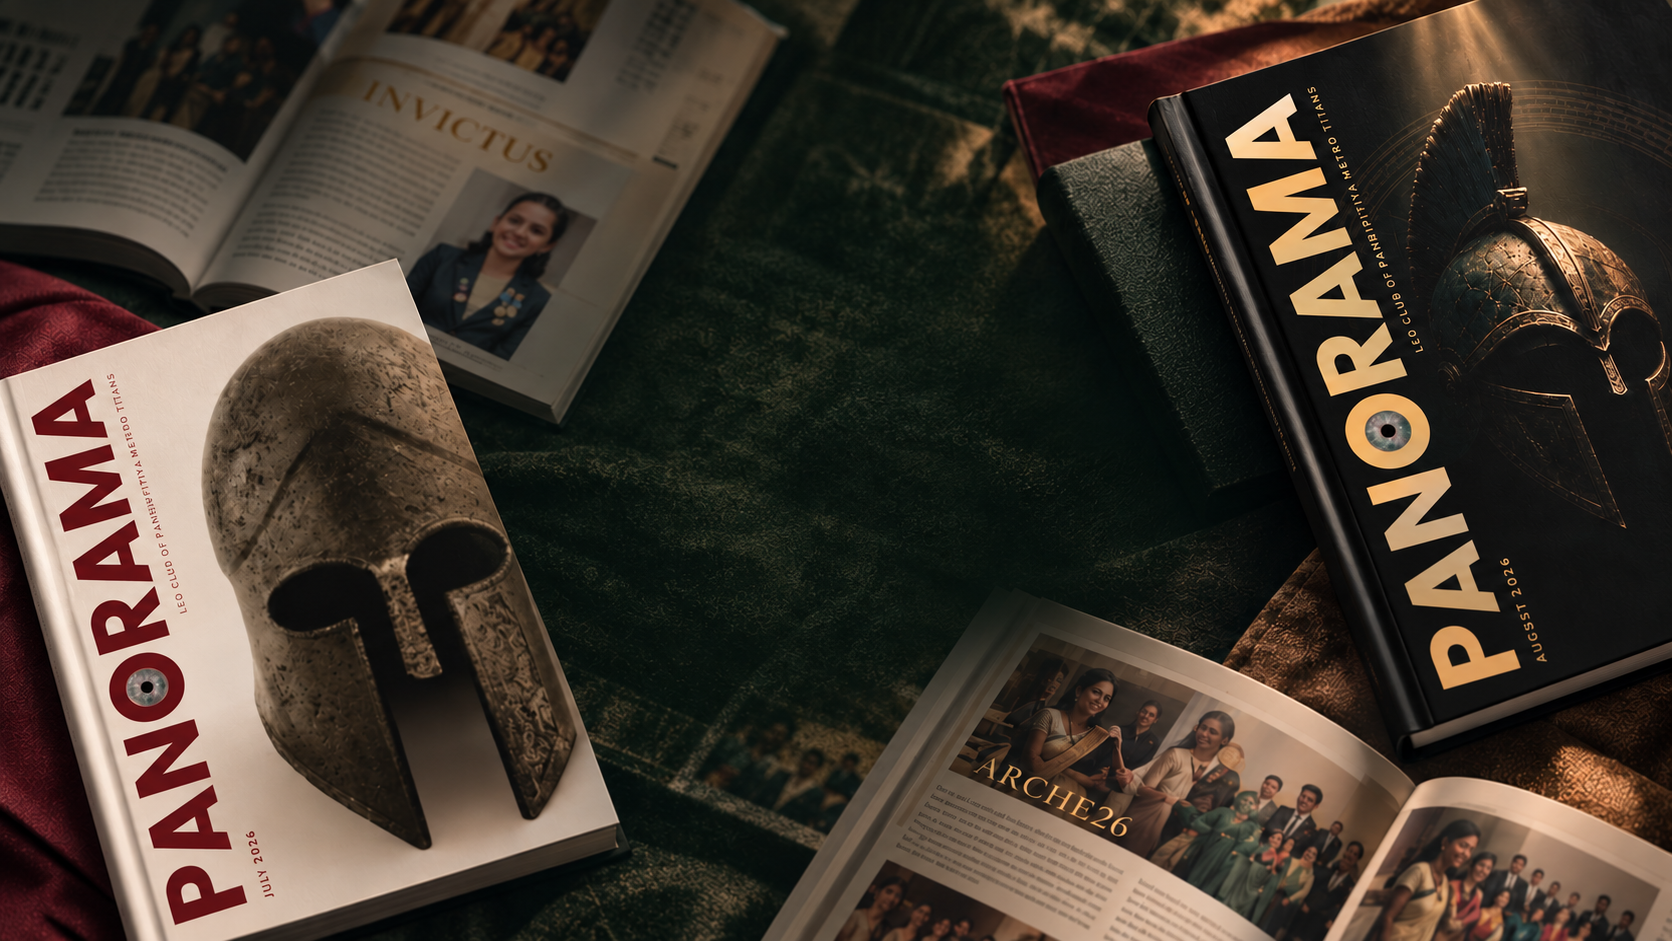
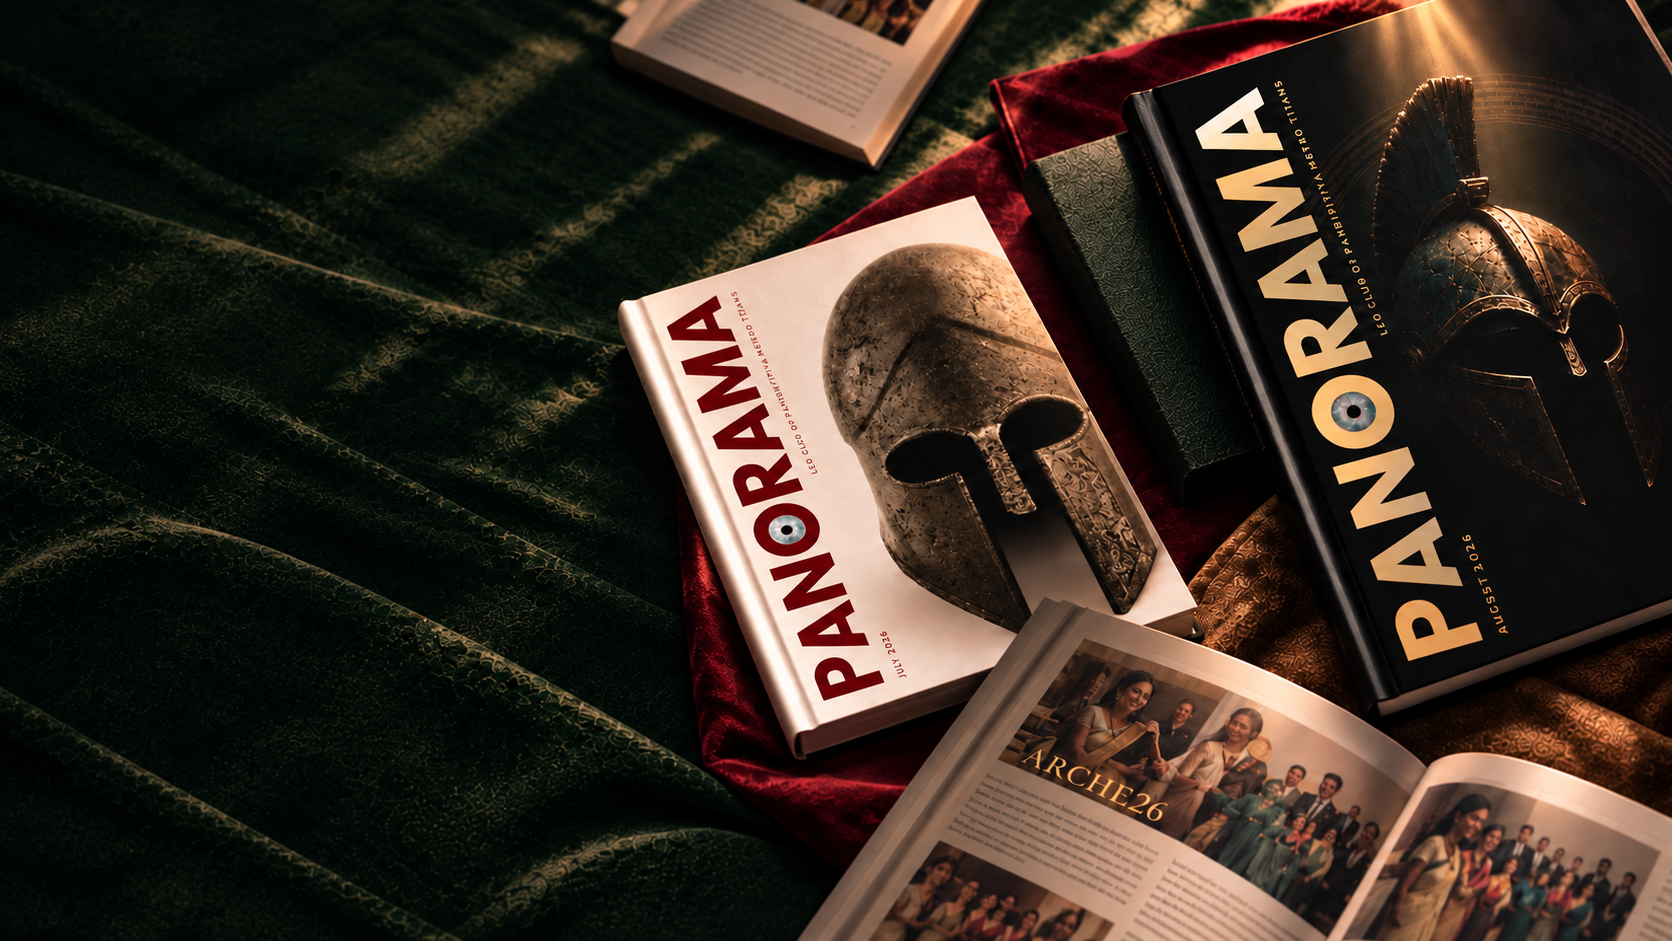
tweaks

diff --git a/app/(main)/newsletters/page.tsx b/app/(main)/newsletters/page.tsx
@@ -95,9 +95,9 @@ export default async function NewslettersPage({
           </p>
           <div className="flex flex-wrap justify-center gap-x-12 md:gap-x-16 gap-y-14">
             {[
-              { name: "Leo Sinadi Badullage", role: "Secretary", img: "/images/team/sinadi.png" },
-              { name: "Leo Thulya Hasindi", role: "Assistant Secretary", img: "/images/team/thulya.png" },
-              { name: "Leo Rashida Jamaldeen", role: "Bulletin Editor", img: "/images/team/rashida.png" },
+              { name: "Leo Sinadi Sithumya", role: "Secretary", img: "/images/team/sinadi.png" },
+              { name: "Leo F. R. Jamaldeen", role: "Bulletin Editor", img: "/images/team/rashida.png" },
+              { name: "Leo Thulya Hasindi", role: "Asst. Secretary", img: "/images/team/thulya.png" },
               { name: "Leo Chesmi Maleena", role: "Digital Transformation", img: "/images/team/chesmi.png" }
             ].map((person, i) => (
               <div key={i} className="flex flex-col items-center w-44 sm:w-48 md:w-52">

diff --git a/components/sections/About.tsx b/components/sections/About.tsx
@@ -23,7 +23,7 @@ export default function AboutPreview() {
           </div>
           <div className="group absolute bottom-0 right-0 aspect-square w-[55%] overflow-hidden rounded-[2.5rem] border-8 border-[#FBFBF8] bg-[#16241B]/5 shadow-2xl shadow-[#16241B]/10">
               <Image
-                src="/images/about/about-small.jpeg"
+                src="/images/about/about-large.jpeg"
                 alt={photoA.alt || "Club highlight"}
                 fill
                 sizes="(min-width: 1024px) 20vw, 50vw"
